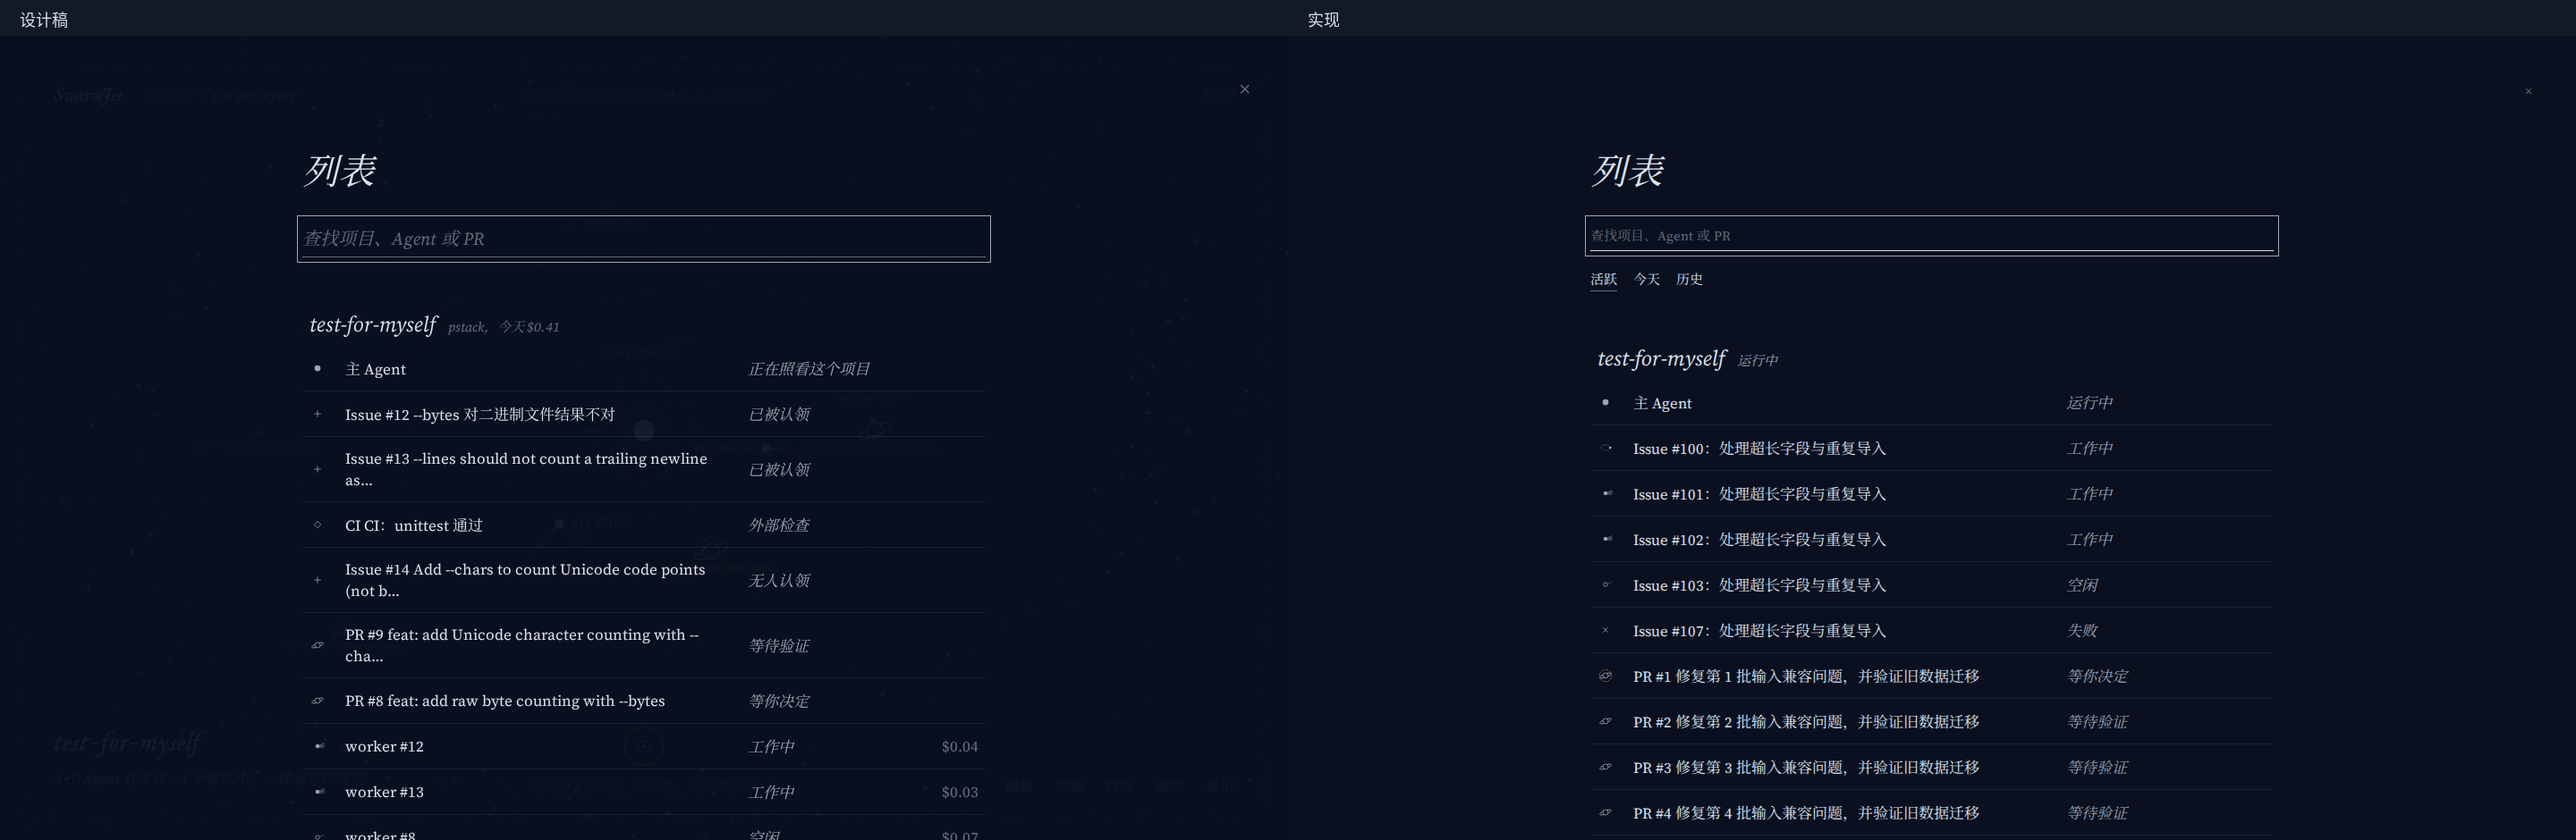
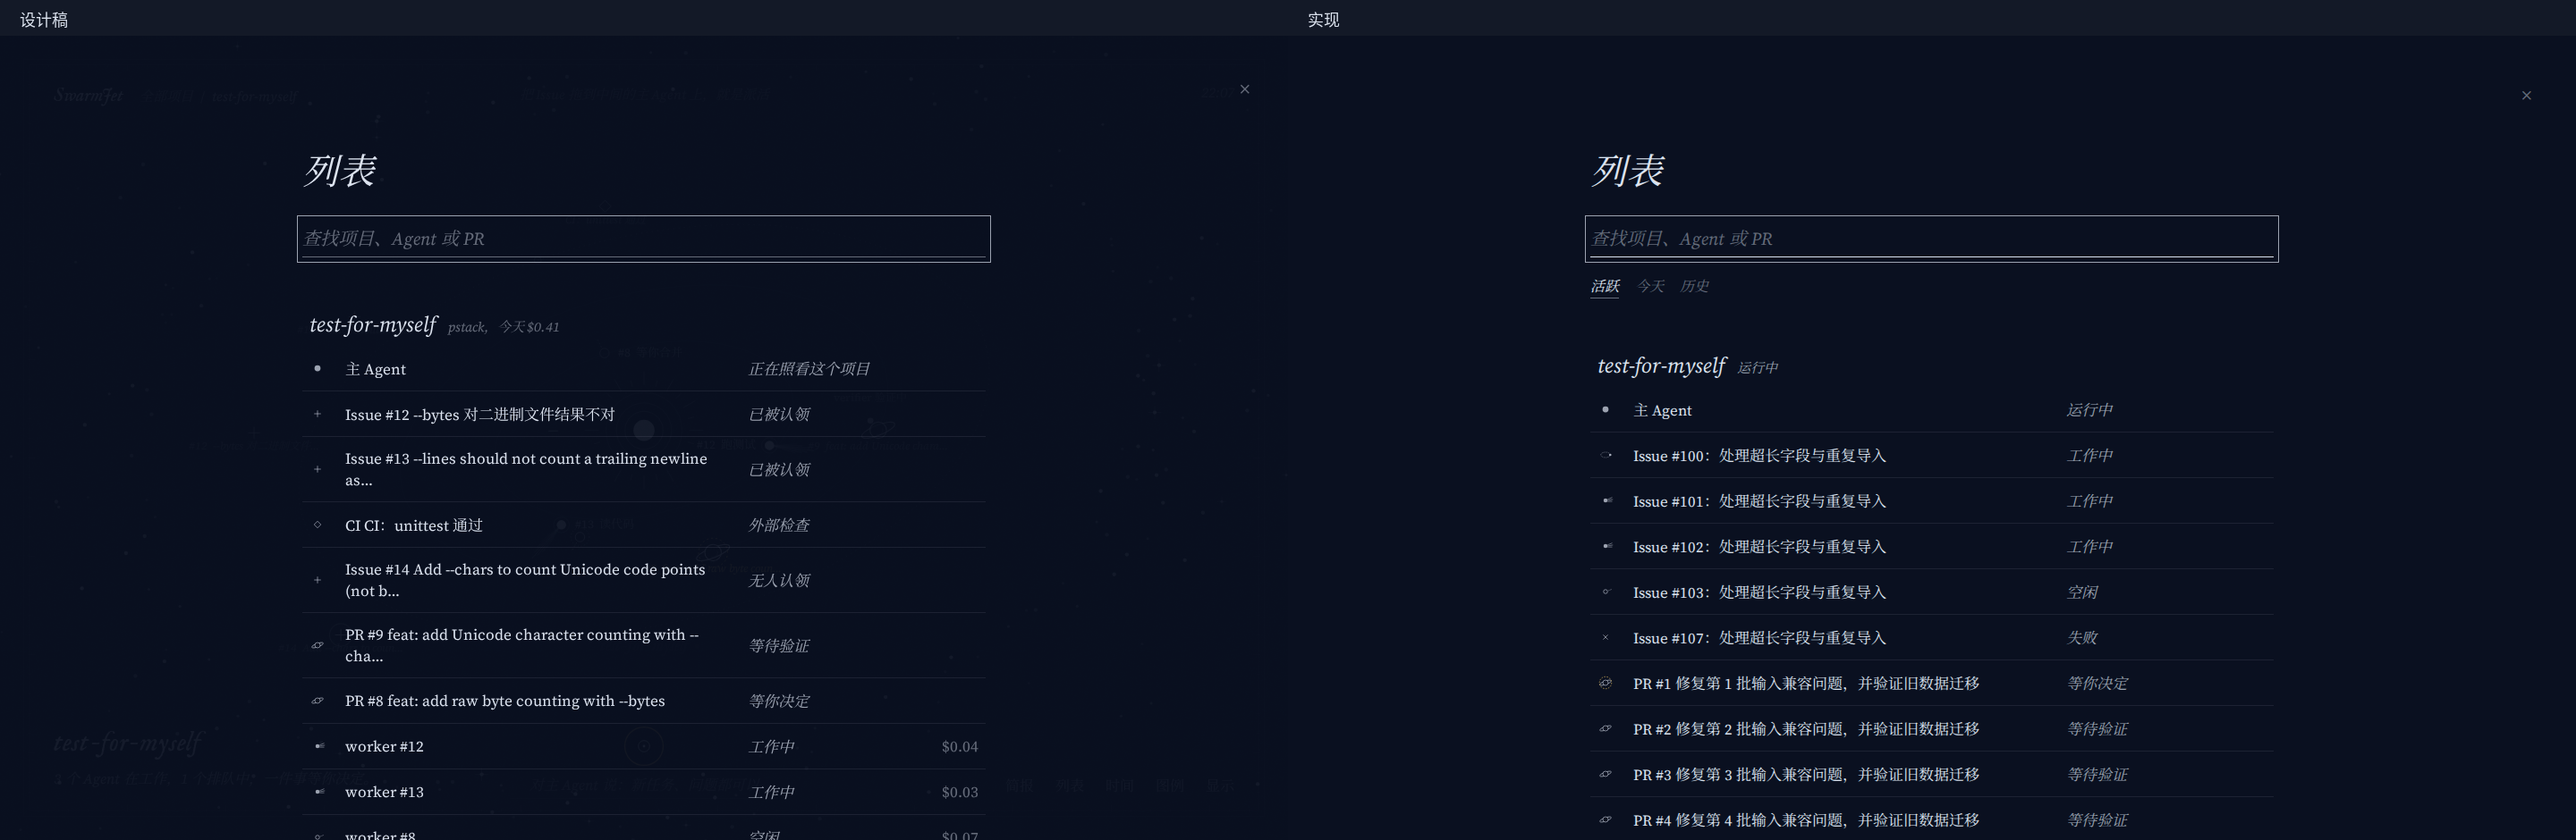
fix(stars): let periphery typography override the base reset

diff --git a/web/src/stars/stars.css b/web/src/stars/stars.css
@@ -10,9 +10,9 @@
 .stars-app * {
   box-sizing: border-box;
 }
-.stars-app button,
-.stars-app input,
-.stars-app select {
+:where(.stars-app) button,
+:where(.stars-app) input,
+:where(.stars-app) select {
   font: inherit;
   color: inherit;
 }

diff --git a/docs/claude/round8-periphery/README.md b/docs/claude/round8-periphery/README.md
@@ -4,7 +4,7 @@
 
 | 界面 | 明亮 | 夜空 | 对照差异 |
 |---|---|---|---|
-| 简报 | [并排图](compare-bright-brief.png) | [并排图](compare-night-brief.png) | 设计稿展示三个项目及固定示例；实现使用一个高密度项目和真实派生数据，因而决定数、文案与星图不同。结构、字号、左上位置、行间距、细线和进出位移沿用设计稿。实现增加“还有 N 个”与最近 24 小时失败项的“知道了”；右侧状态保持一行。1440×900 下“需要你”与“需要留意”同屏。点击“进入星图”后按设计推近待决定的项目。 |
+| 简报 | [并排图](compare-bright-brief.png) | [并排图](compare-night-brief.png) | 设计稿展示三个项目及固定示例；实现使用一个高密度项目和真实派生数据，因而决定数、文案与星图不同。结构、字号、左上位置、行间距、细线和进出位移沿用设计稿。[真实计算字号](typography-reset.md)已修复为 17px。实现增加“还有 N 个”与最近 24 小时失败项的“知道了”；右侧状态保持一行。1440×900 下“需要你”与“需要留意”同屏，最后留意行刚好落在可见区下边界。点击“进入星图”后按设计推近待决定的项目。 |
 | 列表 | [并排图](compare-bright-list.png) | [并排图](compare-night-list.png) | 设计稿按项目列出当前对象；实现添加任务要求的“活跃 / 今天 / 历史”三项筛选，历史对象可搜索。数据内容不同。[列宽回归记录](list-columns.md)确认图标/摘要/状态/费用为 40/484/150/90px，375px 下为 40/129/88/58px。列表背景改为不透底的既有 `--paper`，避免下层文字透出；搜索焦点仍用设计稿的细线。项目行 15px 状态注记原 `--ink3` 在明亮主题被 axe 测得 2.91:1，按用户批准的局部例外只改为既有 `--ink2`。 |
 | 图例 | [并排图](compare-bright-legend.png) | [并排图](compare-night-legend.png) | 位置、尺寸、行距、图形定义照设计稿；实现按本轮需求增加 CI，故多一行。原稿的 h4 调整为视觉相同的 h2，让 axe 标题顺序通过。星图由另一任务实现，图形与其共享 `star-glyphs.ts`。 |
 | 显示 | [并排图](compare-bright-display.png) | [并排图](compare-night-display.png) | 三行文字切换及位置尺寸与设计稿一致，主题项依次为明亮、纸本、夜空、跟随系统；没有原生选择框或复选框。背后星图和项目数因 mock 不同。 |

diff --git a/docs/claude/round8-periphery/typography-reset.md b/docs/claude/round8-periphery/typography-reset.md
@@ -1,0 +1,7 @@
+# 外围字号重置回归
+
+完整应用壳的 `stars.css` 基础规则 `.stars-app button/input/select { font: inherit }` 在 `periphery.css` 后导入，并压过了设计稿移植样式。修复前在 1440×900 真实规模 mock 中，简报行计算值为 **15px**（设计 17px）；列表搜索框也被重置成 15px 正体（设计 20px 斜体）。
+
+仅把基础重置选择器改为 `:where(.stars-app) button/input/select`，保留其继承行为，让组件自身规则生效；没有逐项加 `!important`、改设计字号或调整间距。回归命令：`cd web && PLAYWRIGHT_PORT=5278 npx playwright test tests/round8-periphery.spec.ts -g '真实应用壳按设计计算外围字号'`，1/1 通过。
+
+实测：1440px 简报行 **17px**、列表搜索 **20px italic**、工具栏 **16px**；375px 工具栏 **14px**，列表无横向溢出。1440×900 简报从顶部未滚动时，可见区域下边界 y=788px，“需要留意”最后一行下边界也是 y=788px；需要你与留意项完整落在可见区内，但没有额外垂直余量。列宽回归仍为 1440px 的 40/484/150/90px 和 375px 的 40/129/88/58px。新的明亮、夜空并排截图在本目录 `compare-*.png`。
